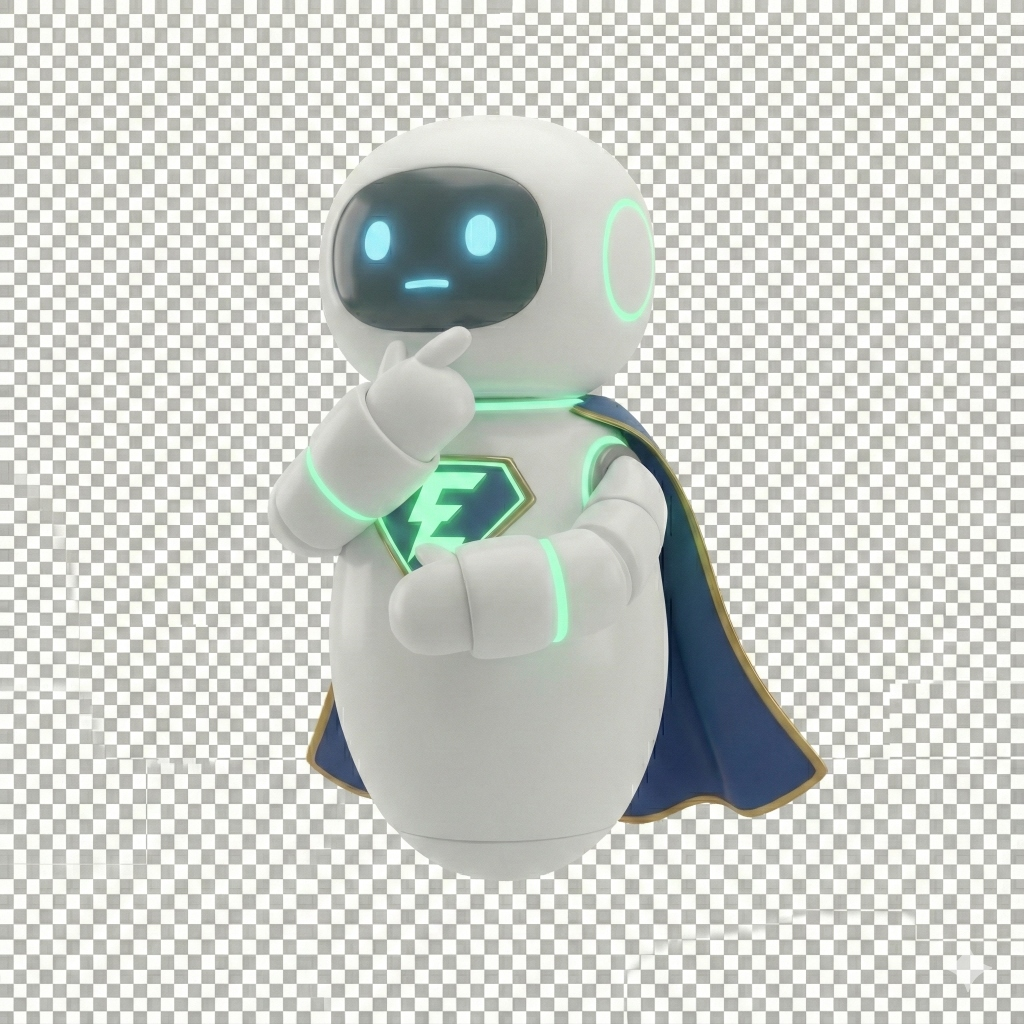
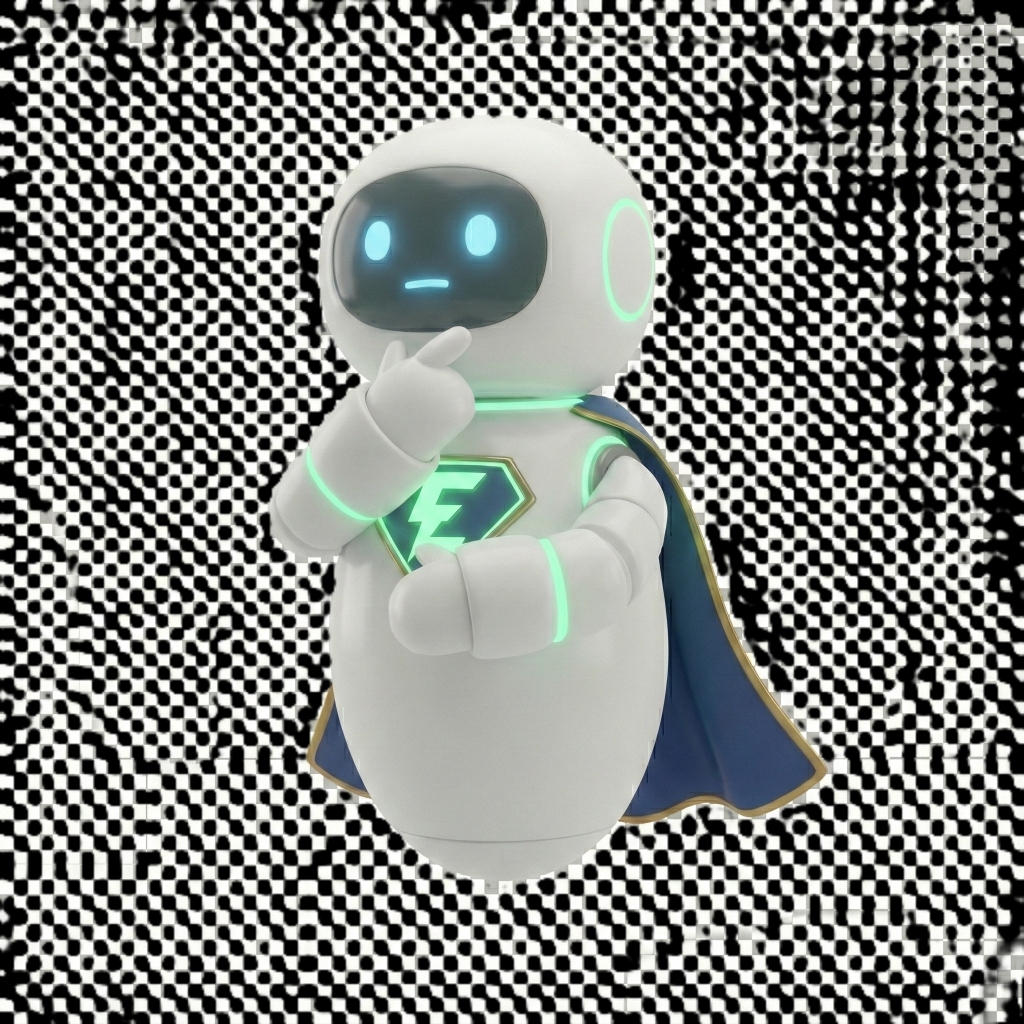
Visual: Simplify to single Captain Efficiency image only

diff --git a/src/SalesPage.jsx b/src/SalesPage.jsx
@@ -282,18 +282,14 @@ export default function SalesPage() {
                   </div>
                 </div>
               </div>
-              {/* Floating Captain Efficiency - Pointing */}
+              {/* Floating Captain Efficiency */}
               <div className="absolute -top-12 -right-8 w-36 h-36 z-20 hidden md:block">
-                <img src="/captain_pointing.png" alt="Captain Efficiency" className="w-full h-full object-contain drop-shadow-2xl animate-bounce-slow" />
-              </div>
-              {/* E Badge Decoration */}
-              <div className="absolute -bottom-4 -left-4 w-16 h-16 z-20 hidden md:block opacity-80">
-                <img src="/captain_e_badge.png" alt="Efficiency Badge" className="w-full h-full object-contain" />
+                <img src="/captain_hero.png" alt="Captain Efficiency" className="w-full h-full object-contain drop-shadow-2xl animate-bounce-slow" />
               </div>
             </div>
           </div>
 
-          <div className="relative">
+          <div>
             <h3 className="text-2xl font-bold text-gray-900 mb-4">What You'll Learn:</h3>
             <ul className="space-y-3">
               {[
@@ -311,10 +307,6 @@ export default function SalesPage() {
                 </li>
               ))}
             </ul>
-            {/* Captain Thumbs Up */}
-            <div className="absolute -bottom-8 -right-8 w-24 h-24 hidden lg:block">
-              <img src="/captain_thumbsup.png" alt="Captain Efficiency Thumbs Up" className="w-full h-full object-contain drop-shadow-xl" />
-            </div>
           </div>
         </div>
       </div>
